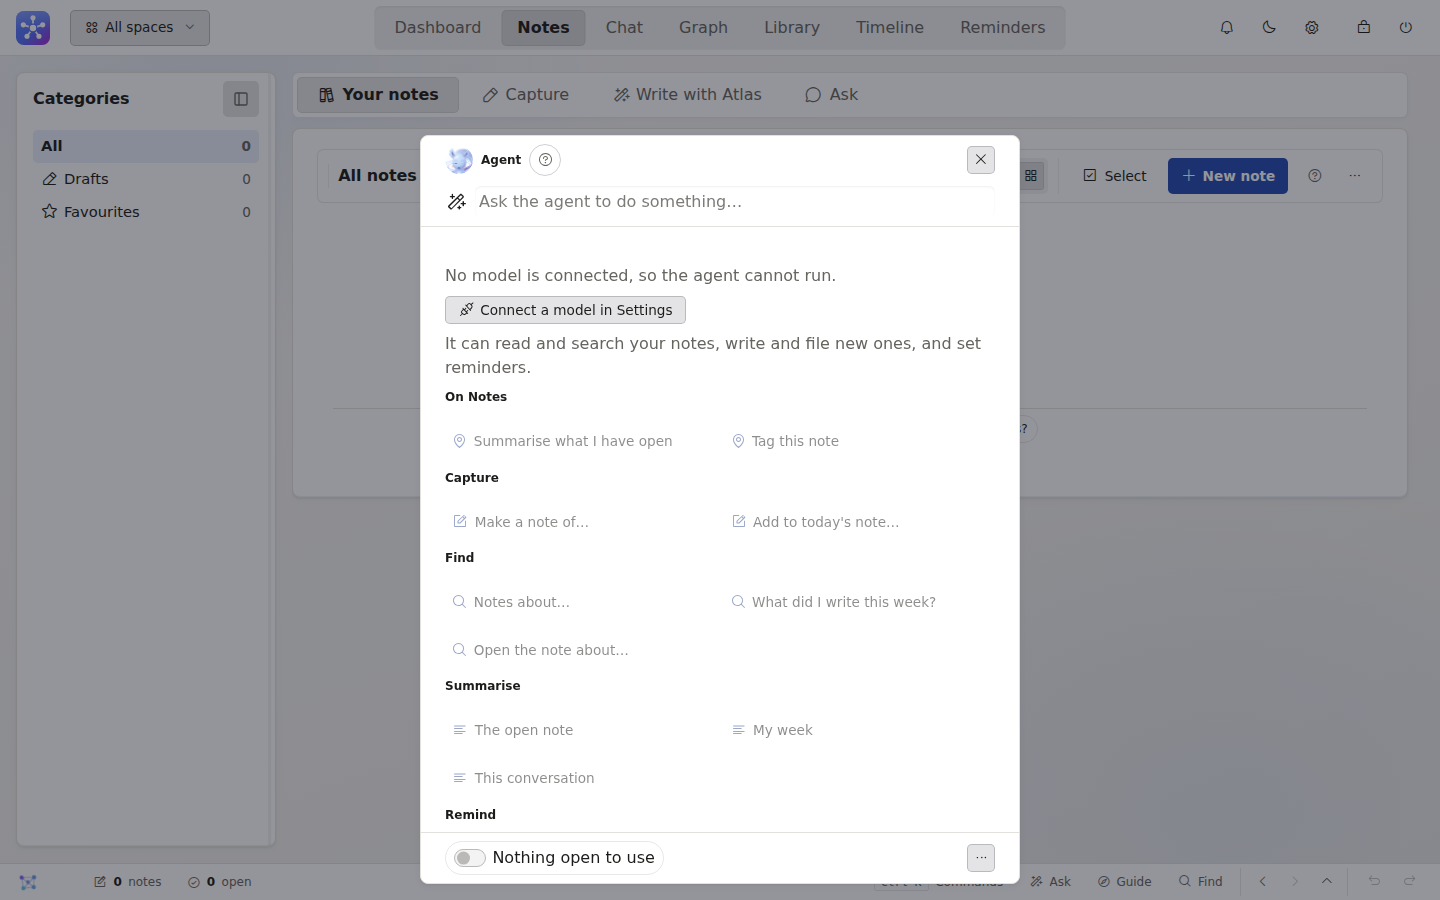
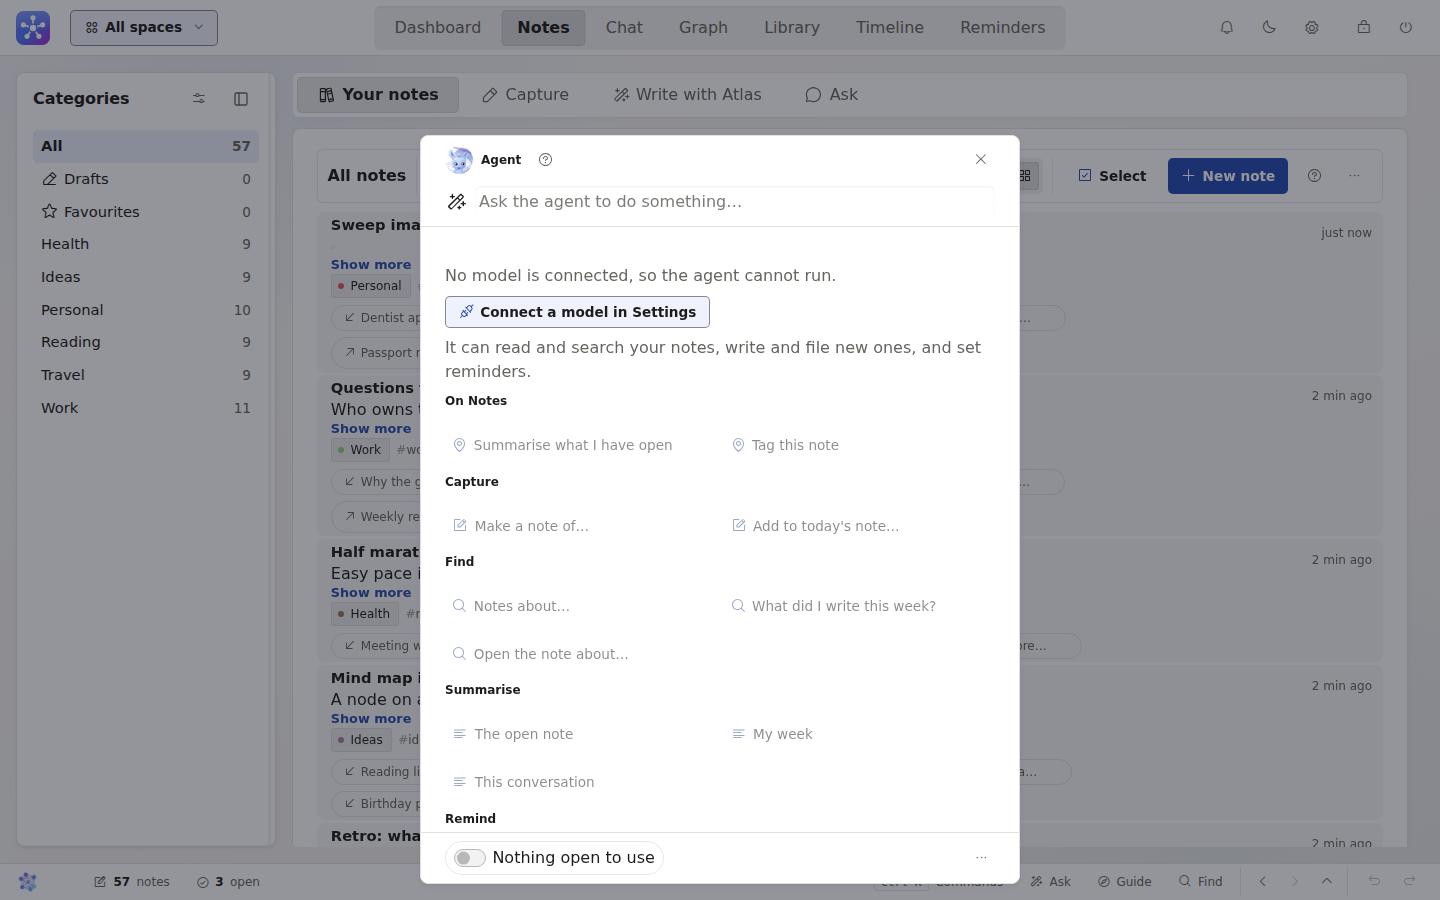
README: the showcase refreshed, dark shots, a light/dark split, Meet Atlas
Done once the owner confirmed the Atlas art and the button restyle had
landed (7b8bc52; the earlier "WIP" title was stale).

A fresh showcase notebook: 57 notes over six categories, spread across
six months (seed-timeline.js + seed-timeline.py), eight coherent notes
seeded last so they sort newest first (seed-readme.js), two boards
(seed-boardrich.js, seed-boards.js), images, a file, three reminders.
Linked with seed-graph-links.js SPARSE=1 for clusters, hubs sized by
degree and a third of each category left loose, plus ten links posted
with no reason for a mix of AI-reasoned and plain edges. Measured: the
graph shot reads 57 notes, 69 links, six visible clusters and several
genuinely unlinked notes.

All 22 existing screenshots retaken (readmeshots.js, SKIP=ocr: this
sandbox has no Tesseract, ocr.png untouched). Eight main features
retaken again with THEME=dark; a light/dark split (the dashboard shot,
left half from light, right half from dark, PIL) leads them. A new
"Meet Atlas" section (title, headline, a cropped atlasDraw(420,
'happy', 'full') portrait, three sentences) follows "What it does";
its old paragraph there is now one line pointing at the section, so
the two do not repeat each other.

graph.png/graph-dark.png and the Atlas portrait quantised to a
256-colour palette to clear the 400 KB budget (730 KB and 759 KB down
to 262 KB and 222 KB, no visible banding).

Also: the docs/CHANGELOG.md mirror re-synced to the root copy
[…]

diff --git a/README.md b/README.md
@@ -35,7 +35,7 @@ capture a thought
 </p>
 
 <details>
-<summary><b>Twenty-one more screenshots</b>: Notes, Chat, Graph, Library and its Activity view, the OCR workspace, boards, mind maps, Documents and focus mode, Timeline, Reminders, the features browser, the command palette, Appearance, Your look, the corner companion and one of your own, the dark theme, and a phone</summary>
+<summary><b>Twenty-nine more screenshots</b>: Notes, Chat, Graph, Library and its Activity view, the OCR workspace, boards, mind maps, Documents and focus mode, Timeline, Reminders, the features browser, the command palette, Appearance, Your look, the corner companion and one of your own, eight main features in the dark theme, and a phone</summary>
 <br>
 
 <p align="center">
@@ -134,8 +134,48 @@ capture a thought
 </p>
 
 <p align="center">
+  <img src="docs/screenshots/theme-split.png" alt="The dashboard, half in the light theme and half in the dark theme, split down the middle" width="850">
+  <br><sub><b>Light or dark</b>: every theme comes in both, or follows your system</sub>
+</p>
+
+<p align="center">
   <img src="docs/screenshots/dashboard-dark.png" alt="The dashboard in the dark theme" width="850">
-  <br><sub><b>Dark</b>: every theme has a light and a dark side, or follows your system</sub>
+  <br><sub><b>Dashboard</b>, dark</sub>
+</p>
+
+<p align="center">
+  <img src="docs/screenshots/notes-dark.png" alt="Notes in the dark theme" width="850">
+  <br><sub><b>Notes</b>, dark</sub>
+</p>
+
+<p align="center">
+  <img src="docs/screenshots/chat-dark.png" alt="Chat in the dark theme" width="850">
+  <br><sub><b>Chat</b>, dark</sub>
+</p>
+
+<p align="center">
+  <img src="docs/screenshots/graph-dark.png" alt="The Graph in the dark theme" width="850">
+  <br><sub><b>Graph</b>, dark</sub>
+</p>
+
+<p align="center">
+  <img src="docs/screenshots/library-dark.png" alt="Library in the dark theme" width="850">
+  <br><sub><b>Library</b>, dark</sub>
+</p>
+
+<p align="center">
+  <img src="docs/screenshots/documents-dark.png" alt="Documents in the dark theme" width="850">
+  <br><sub><b>Documents</b>, dark</sub>
+</p>
+
+<p align="center">
+  <img src="docs/screenshots/timeline-dark.png" alt="Timeline in the dark theme" width="850">
+  <br><sub><b>Timeline</b>, dark</sub>
+</p>
+
+<p align="center">
+  <img src="docs/screenshots/reminders-dark.png" alt="Reminders in the dark theme" width="850">
+  <br><sub><b>Reminders</b>, dark</sub>
 </p>
 
 <p align="center">
@@ -150,6 +190,7 @@ capture a thought
 
 - [Get started](#get-started)
 - [What it does](#what-it-does)
+- [Meet Atlas](#meet-atlas)
 - [The AI, and life without it](#the-ai-and-life-without-it)
 - [Your data](#your-data)
 - [Documentation](#documentation)
@@ -234,10 +275,9 @@ the notebook as a visible checklist, one step at a time, with each tool
 call shown. An optional background librarian tags, links and flags
 duplicates on a schedule you set. It never deletes anything.
 
-**Meet Atlas.** The notebook's guide is a small star spirit with rings of
-stars about it and a ribbon of starlight for a tail. Atlas files your notes,
-answers "how do I" questions from the app's own documentation, and can keep
-you company in the corner of any page, with moods that follow what you do.
+**Meet Atlas.** The notebook's own guide, who files your notes, answers
+"how do I" questions from the app's own documentation, and can keep you
+company in the corner of any page. More below.
 
 **Faces for everyone.** Every person and persona gets a small drawn
 character read from their name (a mood word, an animal, a costume), and
@@ -253,6 +293,21 @@ unlock them.
 Also: a command palette (`Ctrl`/`Cmd`+`K`), a popup agent, read-aloud,
 opt-in web search, thirteen themes, each in light or dark,
 interface zoom, a guided tour of the real controls, and daily local backups.
+
+## Meet Atlas
+
+**The star spirit who keeps your notebook.**
+
+<p align="center">
+  <img src="docs/screenshots/atlas-mood.png" alt="Atlas, MemoryMap's star spirit: a small astral figure with a ring of orbiting stars, flowing starlit hair and a warm expression" width="280">
+</p>
+
+Atlas is the one who reads what you write and works out where it goes: a
+category, a set of tags, the notes it relates to. Ask a question and Atlas
+answers from your own notebook, sentence by sentence, with the note behind
+each one beside it. Settle Atlas in the corner of any page as a companion
+that reacts to what you do, or draw a character of your own the same way,
+from a name.
 
 ## The AI, and life without it
 

diff --git a/CHANGELOG.md b/CHANGELOG.md
@@ -76,6 +76,7 @@ below). Versioning is `0.x` while the app stabilises.
 
 ### Added
 
+- The README has a "Meet Atlas" section with its own portrait, every screenshot retaken, eight main features shown a second time in the dark theme beside a light/dark split, and a richer showcase notebook (clusters, hubs and loose notes, both AI-reasoned and plain links) behind the graph shot.
 - A word rotates beside the thinking dots in chat, capture Ask and the popup agent ("Pondering", "Leafing through your notes"), in the answering persona's own voice; Atlas gets a starlit set of its own, and every persona can write, or ask the AI to suggest, its own list in Settings, Personas. A new "Show thinking words" switch in Settings, Appearance turns it off.
 - The LAN switch offers a "Restart now" action when a restart is actually needed to take effect, on either direction of the switch, instead of only saying so in text.
 - The popup agent's reply rows wear the persona's own avatar circle, the same as Chat's own bubbles.
@@ -112,6 +113,11 @@ below). Versioning is `0.x` while the app stabilises.
 - Private notes open only for the sessions that gave the password. The data key was process-wide, so once a device on the network unlocked, this computer's session without a password (sign-in off) read private notes too. The key is now granted per session (setup, unlock, "unlock private notes", and the two account routes that ask for the password again), every other session sees the vault as locked, and the key is forgotten when the last session that gave the password ends, even while one without it is still open.
 
 ### Fixed
+
+- The rotating thinking word beside the dots (chat, Ask, the popup agent) no longer draws as a long line with an off-centre, pulsing phrase: it was a fourth `<span>` in the dots' own row, and every dot rule matched it too, stretching a dot's circle into a flattened, filled, bouncing pill. The three real dots now carry their own class, and the word is bold with a static glow instead.
+- The chat attach popup (Notes, Documents, Files, Images, Maps) has a proper dialog head (a title, a Close) and a search field with a leading icon, and its category chip can no longer wrap onto a second line. On a phone it opens as a bottom sheet rather than a popover that could land above where the page's own scroll viewport painted and never show at all.
+- Settings > Privacy's "Nothing left this computer." notice is centred on its icon rather than a couple of pixels off, and now leads to the Destinations list it is about.
+- The Notes list shows four whole cards above the fold at a laptop's height, not three and a partial one.
 
 - Back to Library > Files opened Images: the history now tells the two apart.
 - Changing Atlas's look or tune while the large view is open redraws the figure once, whole, instead of putting a full drawing in place of each of its layers.

diff --git a/docs/CHANGELOG.md b/docs/CHANGELOG.md
@@ -76,6 +76,7 @@ below). Versioning is `0.x` while the app stabilises.
 
 ### Added
 
+- The README has a "Meet Atlas" section with its own portrait, every screenshot retaken, eight main features shown a second time in the dark theme beside a light/dark split, and a richer showcase notebook (clusters, hubs and loose notes, both AI-reasoned and plain links) behind the graph shot.
 - A word rotates beside the thinking dots in chat, capture Ask and the popup agent ("Pondering", "Leafing through your notes"), in the answering persona's own voice; Atlas gets a starlit set of its own, and every persona can write, or ask the AI to suggest, its own list in Settings, Personas. A new "Show thinking words" switch in Settings, Appearance turns it off.
 - The LAN switch offers a "Restart now" action when a restart is actually needed to take effect, on either direction of the switch, instead of only saying so in text.
 - The popup agent's reply rows wear the persona's own avatar circle, the same as Chat's own bubbles.
@@ -112,6 +113,11 @@ below). Versioning is `0.x` while the app stabilises.
 - Private notes open only for the sessions that gave the password. The data key was process-wide, so once a device on the network unlocked, this computer's session without a password (sign-in off) read private notes too. The key is now granted per session (setup, unlock, "unlock private notes", and the two account routes that ask for the password again), every other session sees the vault as locked, and the key is forgotten when the last session that gave the password ends, even while one without it is still open.
 
 ### Fixed
+
+- The rotating thinking word beside the dots (chat, Ask, the popup agent) no longer draws as a long line with an off-centre, pulsing phrase: it was a fourth `<span>` in the dots' own row, and every dot rule matched it too, stretching a dot's circle into a flattened, filled, bouncing pill. The three real dots now carry their own class, and the word is bold with a static glow instead.
+- The chat attach popup (Notes, Documents, Files, Images, Maps) has a proper dialog head (a title, a Close) and a search field with a leading icon, and its category chip can no longer wrap onto a second line. On a phone it opens as a bottom sheet rather than a popover that could land above where the page's own scroll viewport painted and never show at all.
+- Settings > Privacy's "Nothing left this computer." notice is centred on its icon rather than a couple of pixels off, and now leads to the Destinations list it is about.
+- The Notes list shows four whole cards above the fold at a laptop's height, not three and a partial one.
 
 - Back to Library > Files opened Images: the history now tells the two apart.
 - Changing Atlas's look or tune while the large view is open redraws the figure once, whole, instead of putting a full drawing in place of each of its layers.

diff --git a/docs/roadmap/agent-remaining/wrapup-0927.md b/docs/roadmap/agent-remaining/wrapup-0927.md
@@ -304,10 +304,39 @@ Sweeps in `scratchpad/ui-sweeps/`, measured at 1093x614 unless named.
   more") and a filled icon (no `-fill` glyph anywhere in the vendored
   Phosphor set, regular weight only) both need a recipe change, not a
   one-line fix.
-- [ ] README: showcase data (clusters, webs, loose notes, reasoned and plain
+- [x] README: showcase data (clusters, webs, loose notes, reasoned and plain
   links), dark shots of every main feature, one dark/light split, the Atlas
   section (title, headline, short intro, a mood image), the rest polished.
-  After the Atlas art and the button restyle land.
+  Done after the owner confirmed the Atlas art and the button restyle had
+  landed (7b8bc52).
+
+  A fresh showcase notebook (57 notes over six categories, spread across
+  six months via `seed-timeline.js` + `seed-timeline.py`, then eight
+  coherent notes on top via `seed-readme.js` so they sort newest first;
+  two boards via `seed-boardrich.js` and `seed-boards.js`; two images, one
+  PDF, three reminders), linked with `seed-graph-links.js SPARSE=1` for
+  clusters, hubs and a third of notes left loose per category, plus ten
+  extra links posted with no `reason` for a mix of reasoned (`.graph-edge
+  -reasoned`) and plain edges. Measured: the graph shot reads 57 notes, 69
+  links, six visible clusters with hubs sized by degree and several
+  genuinely unlinked satellites.
+
+  All 22 existing screenshots retaken (`scratchpad/ui-sweeps/readmeshots.js`,
+  SKIP=ocr since this sandbox has no Tesseract; `ocr.png` untouched). Eight
+  main features retaken a second time with `THEME=dark` and copied in as
+  `<name>-dark.png` (dashboard, notes, chat, graph, library, documents,
+  timeline, reminders); a light/dark split (`theme-split.png`, the
+  dashboard shot's left half from the light capture and right half from
+  the dark one, PIL) leads the dark set. A new `## Meet Atlas` section
+  (title, headline, a cropped `atlasDraw(420, 'happy', 'full')` portrait,
+  three sentences) sits after "What it does"; its old paragraph there is
+  now one line pointing at the new section, so the two do not repeat each
+  other. `graph.png`/`graph-dark.png` and the Atlas portrait quantised to
+  a 256-colour palette (PIL, `convert('P', palette=Image.ADAPTIVE)`) to
+  clear the 400 KB budget (Brief 16's trap): 730 KB and 759 KB down to
+  262 KB and 222 KB, no visible banding. `tests/test_readme_freshness.py`
+  and `tests/test_docs_layout.py` both green (the screenshot orphan check
+  included: every new file is shown, nothing shown is missing).
 
 ## Last, once no agent is editing JS (the owner asked for it this release)
 
